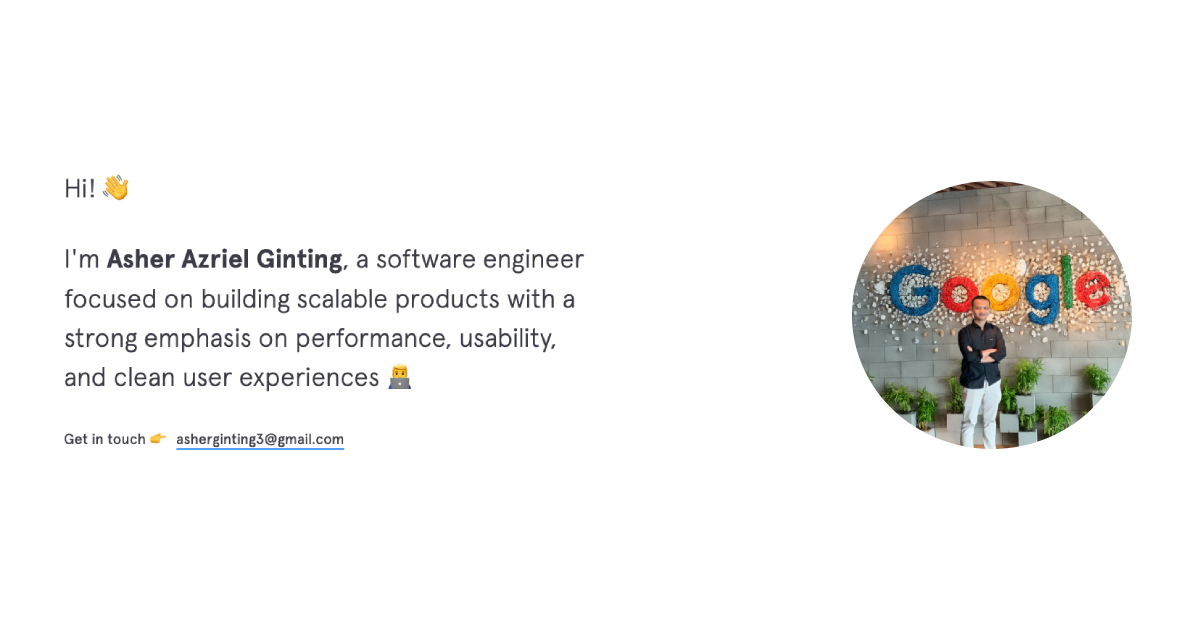
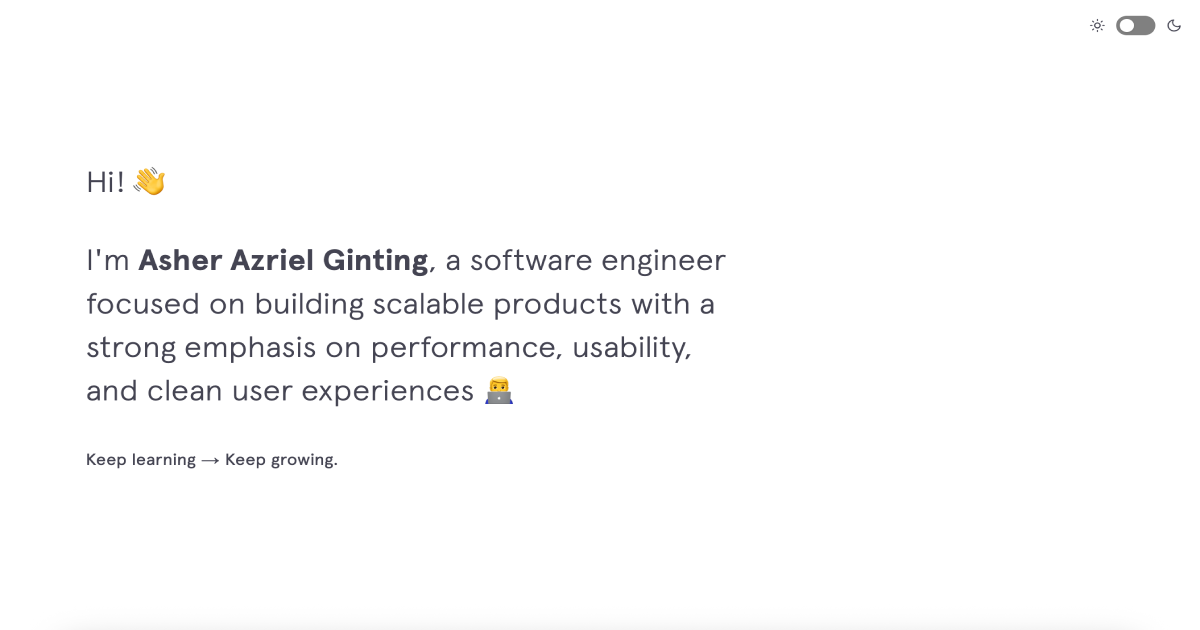
chore: update hero

diff --git a/src/components/Hero.tsx b/src/components/Hero.tsx
@@ -43,50 +43,11 @@ export default function Hero() {
         </span>
       </h1>
       <div className="my-4 sm:my-5 text-base sm:text-lg md:text-[20px] font-normal flex items-center gap-1.5">
-        <span>Get in touch</span>
+        <span>Keep learning</span>
         <span className="select-none pointer-events-none" aria-hidden="true">
-          👉
+          →
         </span>
-        <motion.a
-          href="mailto:asherginting3@gmail.com"
-          className="relative inline-block px-2"
-          initial="rest"
-          whileHover="hover"
-          whileTap="hover"
-          animate="rest"
-        >
-          <motion.span
-            variants={{
-              rest: { scaleY: 0 },
-              hover: { scaleY: 1 },
-            }}
-            transition={{
-              duration: 0.25,
-              ease: [0.22, 1, 0.36, 1],
-            }}
-            className="absolute inset-0 origin-bottom bg-(--color-accent) z-0"
-          />
-          <motion.span
-            variants={{
-              rest: {
-                color: "var(--color-text-primary)",
-              },
-              hover: {
-                color: "#ffffff",
-              },
-            }}
-            transition={{ duration: 0.2 }}
-            className="
-              relative z-10
-              underline
-              decoration-underline
-              decoration-2
-              underline-offset-6
-            "
-          >
-            asherginting3@gmail.com
-          </motion.span>
-        </motion.a>
+        <span>Keep growing.</span>
       </div>
     </section>
   );
